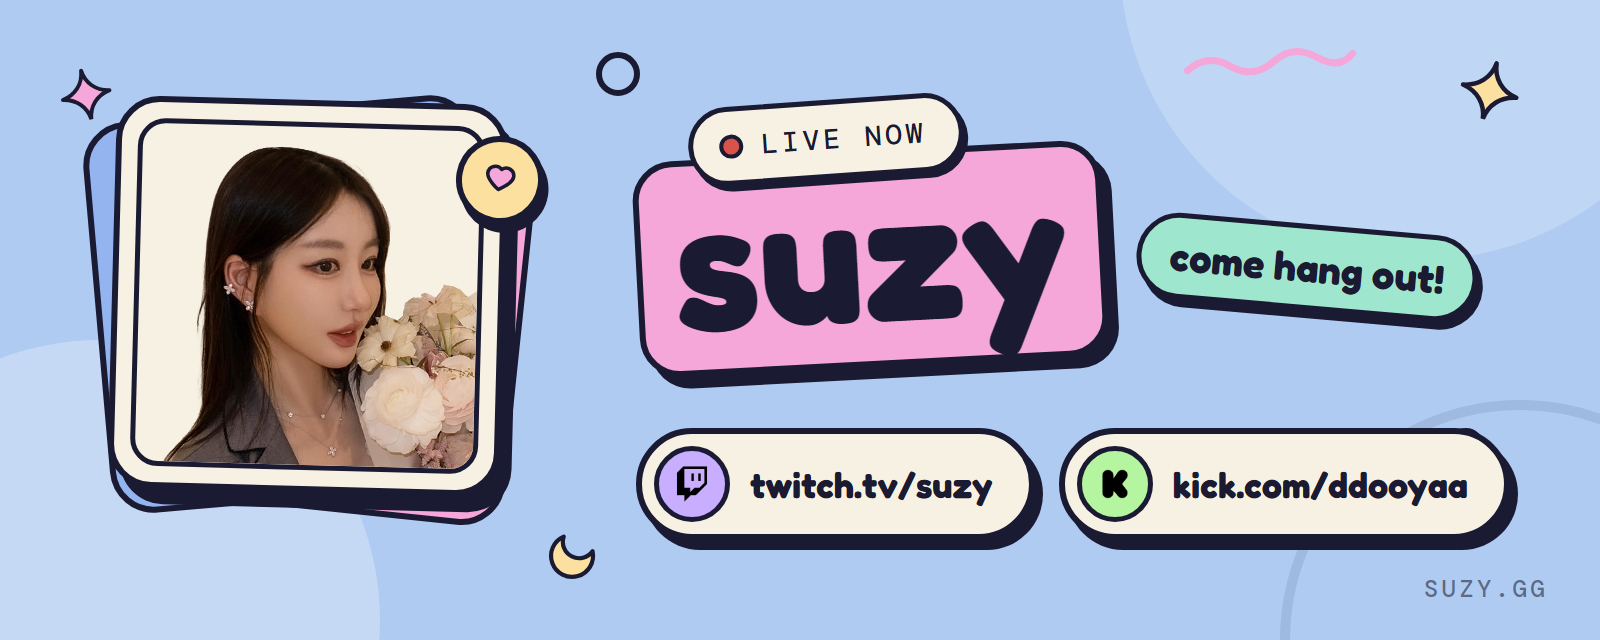
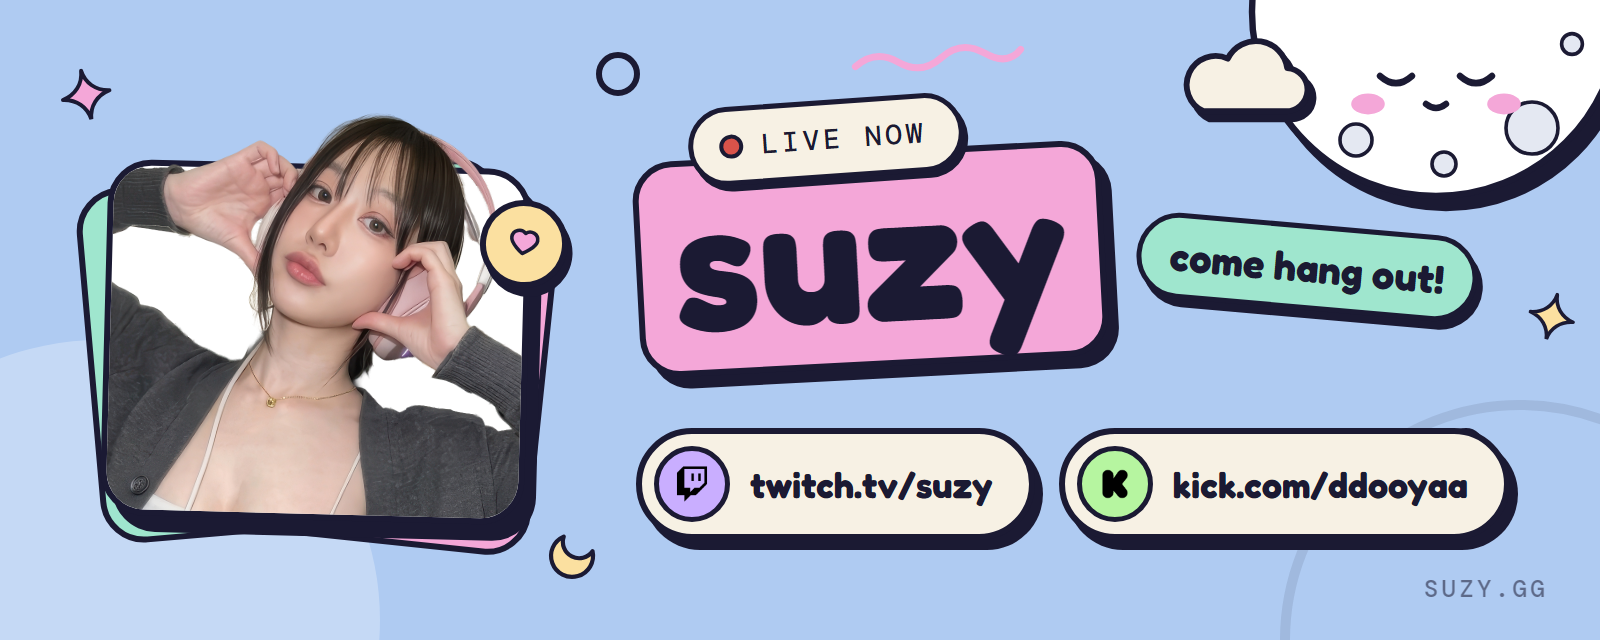
Event cover: cutout variant with white moon
800px-event.png is now the #cutout variant of src/event-banner.html (head
popping out of a white card, white sleepy moon top right). Adds the cutout
source image it needs.

diff --git a/src/event-banner.html b/src/event-banner.html
@@ -3,7 +3,9 @@
      (bot.suzy.gg apps/bot/src/live/scheduledEventSync.ts, COVER_IMAGE_URL).
      Discord wants 800x320 (2.5:1). Laid out at 800x320 CSS px, rendered at 2x
      by render.sh. Palette, type and stickers are suzy.gg's styles.css. One image
-     for every stream, so nothing on it is per-stream (no title, no game). -->
+     for every stream, so nothing on it is per-stream (no title, no game).
+     The live cover (800px-event.png) is the #cutout variant since 2026-09-26; render.sh
+     `event` renders that, `event-photo` the photo variant to 800px-event-photo.png. -->
 <html lang="en">
 <head>
 <meta charset="UTF-8" />
@@ -30,15 +32,18 @@
 
   /* background stickers */
   .blob { left: -90px; top: 170px; width: 280px; height: 280px; border-radius: 999px; background: rgba(255,255,255,.28); }
-  .blob-b { left: 560px; top: -170px; width: 300px; height: 300px; border-radius: 999px; background: rgba(255,255,255,.22); }
+  /* white sleepy moon top right, mostly above the edge, a cloud across its rim */
+  .bigmoon { left: 618px; top: -94px; width: 200px; height: 200px; filter: drop-shadow(5px 6px 0 var(--ink)); }
+  .cloud { width: 72px; height: 45px; fill: var(--paper); stroke: var(--ink); stroke-width: 1.3; stroke-linejoin: round; filter: drop-shadow(3px 4px 0 var(--ink)); }
+  .cloud-a { left: 586px; top: 14px; }
   .ring { right: -80px; bottom: -120px; width: 240px; height: 240px; border-radius: 999px; border: 5px solid rgba(27,26,51,.1); }
   .spark, .moon { stroke: var(--ink); stroke-width: 1.8; stroke-linejoin: round; }
   .spark-a { left: 30px; top: 34px; width: 26px; height: 26px; fill: var(--pink); transform: rotate(-12deg); }
-  .spark-b { right: 40px; top: 30px; width: 30px; height: 30px; fill: var(--butter); transform: rotate(14deg); }
+  .spark-b { left: 764px; top: 146px; width: 24px; height: 24px; fill: var(--butter); transform: rotate(14deg); }
   .moon { left: 272px; top: 264px; width: 28px; height: 28px; fill: var(--butter); transform: rotate(-18deg); }
   .dot { right: 58px; top: 214px; width: 18px; height: 18px; border-radius: 999px; background: var(--mint); border: 2.5px solid var(--ink); box-shadow: 3px 4px 0 var(--ink); }
   .hoop { left: 298px; top: 26px; width: 22px; height: 22px; border-radius: 999px; border: 3px solid var(--ink); }
-  .squiggle { right: 120px; top: 22px; width: 90px; height: 18px; fill: none; stroke: var(--pink); stroke-width: 4; stroke-linecap: round; transform: rotate(-6deg); }
+  .squiggle { left: 424px; top: 20px; width: 90px; height: 18px; fill: none; stroke: var(--pink); stroke-width: 4; stroke-linecap: round; transform: rotate(-6deg); }
 
   /* photo stack, as on suzy.gg */
   .photo { left: 56px; top: 50px; width: 196px; height: 196px; }
@@ -64,12 +69,48 @@
   .tile img { width: 21px; height: 21px; }
 
   .site { right: 26px; bottom: 18px; font-family: var(--mono); font-weight: 500; font-size: 12px; letter-spacing: .14em; text-transform: uppercase; opacity: .55; }
+
+  /* #cutout variant: hs-cutout.png in a card, head popping out over the top edge.
+     The same image is drawn twice: clipped by the card, and again clipped to the
+     strip above the card's top edge plus three border widths, so hair and headphones sit
+     over the border and the two copies overlap (meeting exactly left a hairline seam the border showed through); its left 12% is trimmed, where only a sleeve reaches the top corner. --off is where the card's top edge cuts the image (13% down,
+     below the hair, above the shoulders: nothing there touches the image edge, so
+     no straight cut shows). --h must stay at or under --w minus --off, or the
+     image ends above the card's bottom edge. */
+  .cutphoto { left: 52px; top: 82px; --w: 212px; --off: 28px; --h: 178px; --b: 3px; --r: 22px; display: none; width: var(--w); height: var(--h); }
+  body.cut .cutphoto { display: block; }
+  body.cut .photo { display: none; }
+  .cp-back { position: absolute; inset: 0; border-radius: var(--r); border: var(--b) solid var(--ink); }
+  .cp-back-pink { background: var(--pink); transform: translate(calc(var(--b) * 3), calc(var(--b) * 3)) rotate(6deg); }
+  .cp-back-mint { background: var(--mint); transform: translate(calc(var(--b) * -2.7), calc(var(--b) * 1.4)) rotate(-5deg); }
+  .cp-rot { position: absolute; inset: 0; transform: rotate(1.5deg); }
+  .cp-card { position: absolute; inset: 0; overflow: hidden; border-radius: var(--r); border: var(--b) solid var(--ink); background: #FFFFFF; box-shadow: calc(var(--b) * 2) calc(var(--b) * 2.7) 0 var(--ink); }
+  .cp-card img { position: absolute; left: calc(-1 * var(--b)); top: calc(-1 * (var(--off) + var(--b))); width: var(--w); }
+  .cp-pop { position: absolute; left: 0; top: calc(-1 * var(--off)); width: var(--w); clip-path: inset(0 0 calc(var(--w) - var(--off) - var(--b) * 3) 12%); }
 </style>
 </head>
 <body>
 <div class="stage">
   <div class="blob"></div>
-  <div class="blob-b"></div>
+  <!-- White sleepy moon, viewBox 100x100, only its lower part on the canvas
+       (same drawing as twitch-offline.html). -->
+  <svg class="bigmoon" viewBox="0 0 100 100">
+    <circle cx="50" cy="50" r="46" fill="#FFFFFF" stroke="var(--ink)" stroke-width="1.6" />
+    <g fill="#E4E8F2" stroke="var(--ink)" stroke-width=".9">
+      <circle cx="30" cy="82" r="4" />
+      <circle cx="74" cy="79" r="6.5" />
+      <circle cx="52" cy="88" r="3" />
+      <circle cx="84" cy="58" r="2.6" />
+    </g>
+    <g fill="none" stroke="var(--ink)" stroke-width="1.6" stroke-linecap="round">
+      <path d="M36 66 q4 3.6 8 0" />
+      <path d="M56 66 q4 3.6 8 0" />
+      <path d="M47.5 73 q2.5 2 5 0" />
+    </g>
+    <ellipse cx="33" cy="73" rx="4.2" ry="2.6" fill="var(--pink)" />
+    <ellipse cx="67" cy="73" rx="4.2" ry="2.6" fill="var(--pink)" />
+  </svg>
+  <svg class="cloud cloud-a" viewBox="0 0 32 20"><path d="M7 18.5H25a4.8 4.8 0 0 0 .6-9.6A7 7 0 0 0 12.4 6.8 5.9 5.9 0 0 0 7 18.5z"/></svg>
   <div class="ring"></div>
   <svg class="spark spark-a" viewBox="0 0 24 24"><path d="M12 1c.6 6 4.8 10.4 11 11.5-6.2 1.1-10.4 5.5-11 11.5-.6-6-4.8-10.4-11-11.5C7.2 11.4 11.4 7 12 1z"/></svg>
   <svg class="spark spark-b" viewBox="0 0 24 24"><path d="M12 1c.6 6 4.8 10.4 11 11.5-6.2 1.1-10.4 5.5-11 11.5-.6-6-4.8-10.4-11-11.5C7.2 11.4 11.4 7 12 1z"/></svg>
@@ -82,6 +123,17 @@
     <div class="photo-back photo-back-pink"></div>
     <div class="photo-back photo-back-blue"></div>
     <div class="photo-card"><img src="suzy-hs.webp" alt="" /></div>
+    <span class="heart"><svg viewBox="0 0 24 24"><path d="M20.8 8.6c0 4.6-8.8 10-8.8 10s-8.8-5.4-8.8-10a5.2 5.2 0 0 1 8.8-3.7 5.2 5.2 0 0 1 8.8 3.7z"/></svg></span>
+  </div>
+
+
+  <div class="cutphoto">
+    <div class="cp-back cp-back-pink"></div>
+    <div class="cp-back cp-back-mint"></div>
+    <div class="cp-rot">
+      <div class="cp-card"><img src="hs-cutout.png" alt="" /></div>
+      <img class="cp-pop" src="hs-cutout.png" alt="" />
+    </div>
     <span class="heart"><svg viewBox="0 0 24 24"><path d="M20.8 8.6c0 4.6-8.8 10-8.8 10s-8.8-5.4-8.8-10a5.2 5.2 0 0 1 8.8-3.7 5.2 5.2 0 0 1 8.8 3.7z"/></svg></span>
   </div>
 
@@ -98,5 +150,9 @@
 
   <span class="site">suzy.gg</span>
 </div>
+<script>
+  // render.sh opens this page with #cutout for the cutout variant.
+  if (location.hash === "#cutout") document.body.classList.add("cut");
+</script>
 </body>
 </html>
